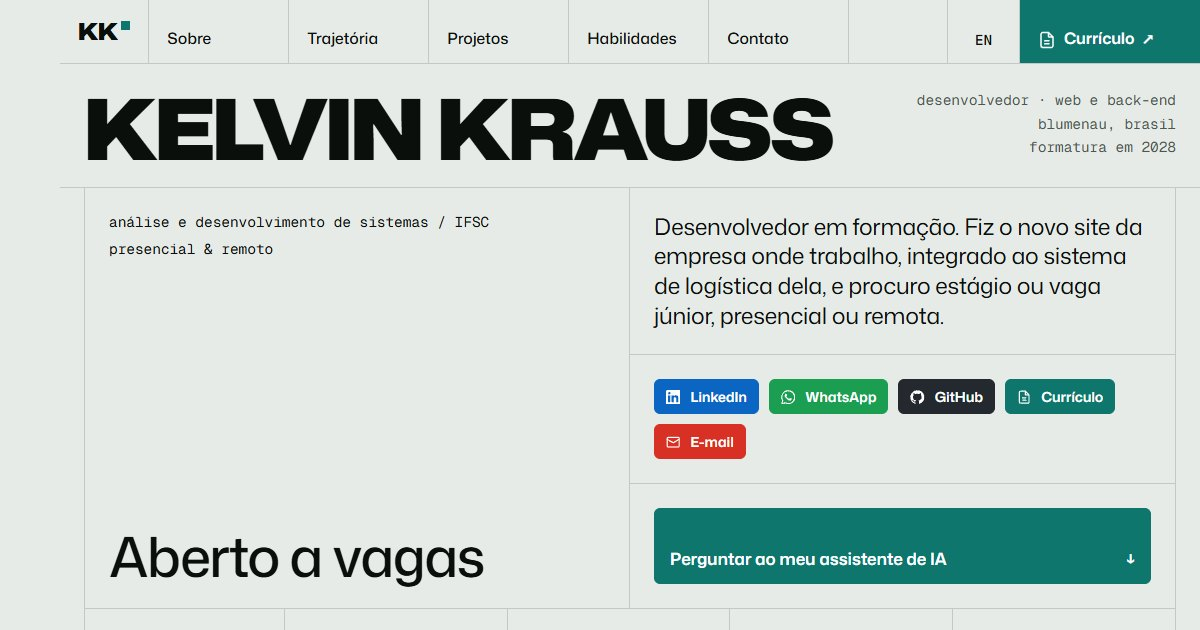
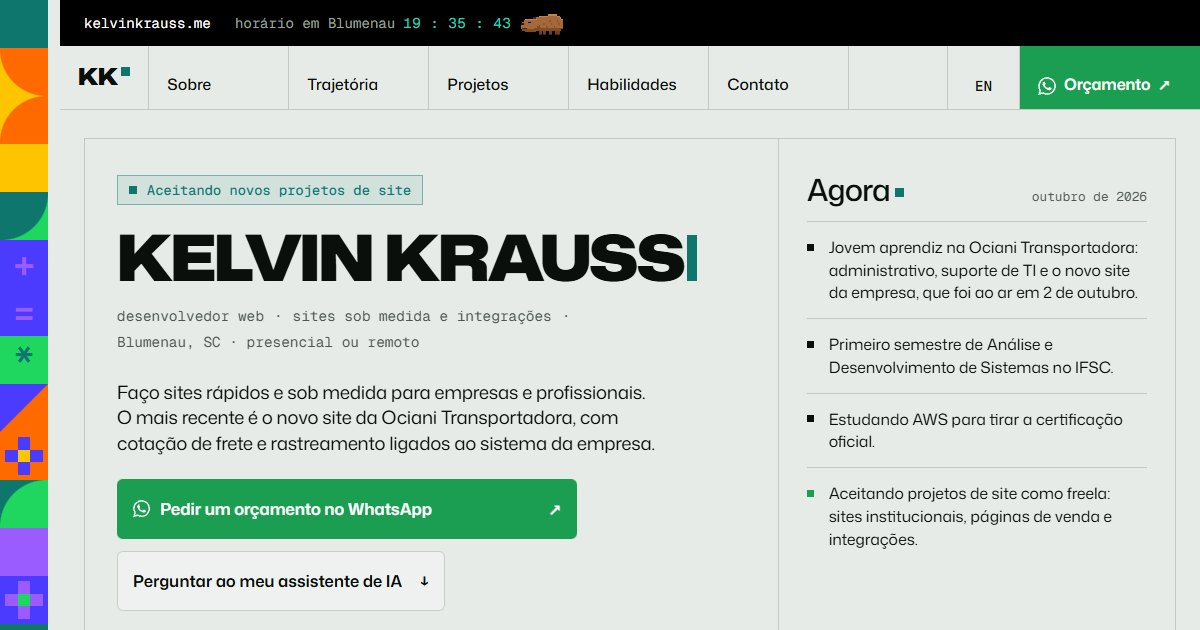
Menu sem a celula do curriculo em telas medias (cortava o botao de orcamento) e nova imagem de compartilhamento

diff --git a/css/alt.css b/css/alt.css
@@ -523,3 +523,6 @@ body.mosaic-pad { padding-left: var(--pad, 0px); }
 .swim .water { position: absolute; left: 0; bottom: 0; }
 @keyframes capy-bob { 50% { transform: translateY(2px); } }
 @media (prefers-reduced-motion: reduce) { .capy .shut, .capy .step, .swim .body { animation: none !important; } }
+
+/* the menu doesn't fit the résumé cell on medium screens (the résumé is also in the buttons under the name) */
+@media (max-width: 1320px) { .nav-cv { display: none; } }
